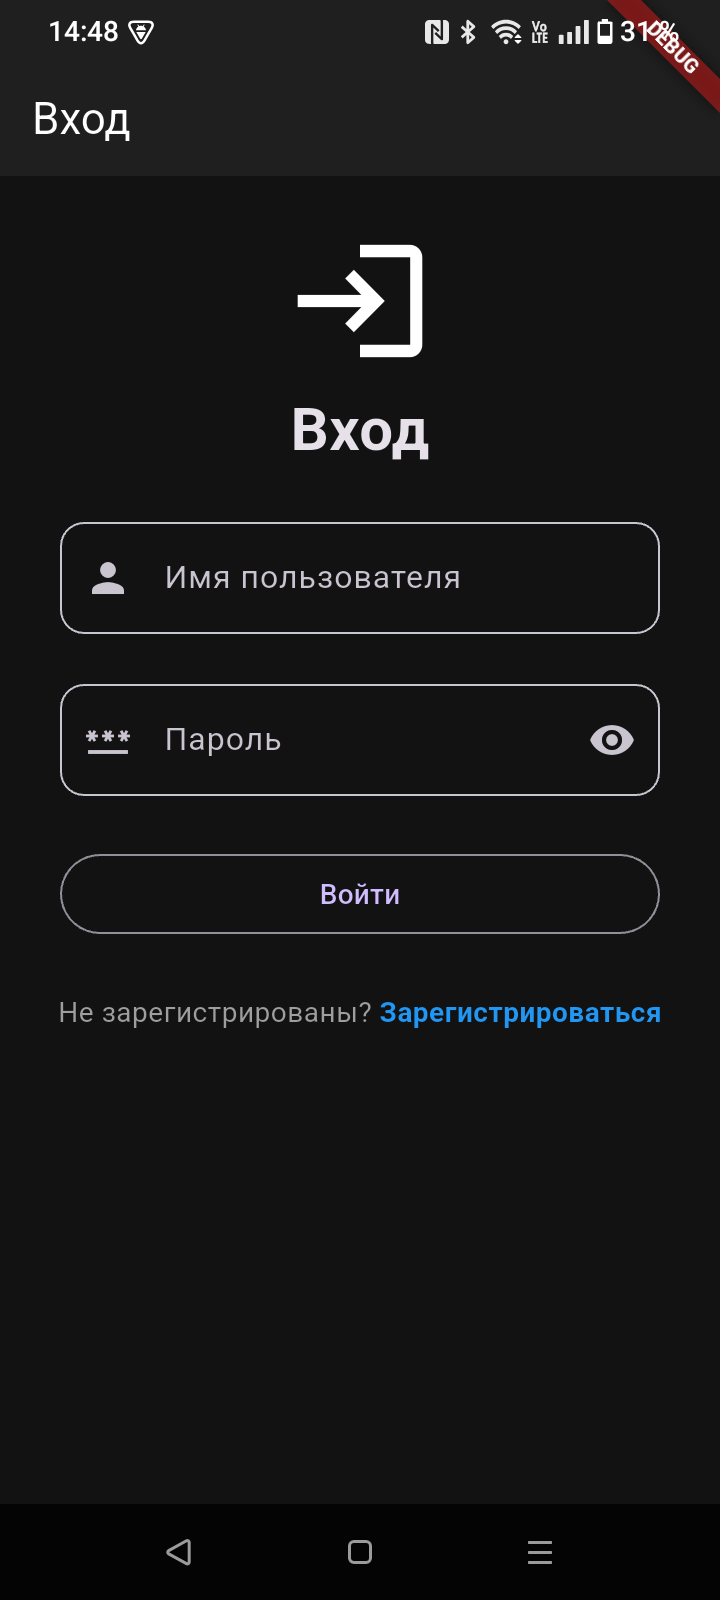
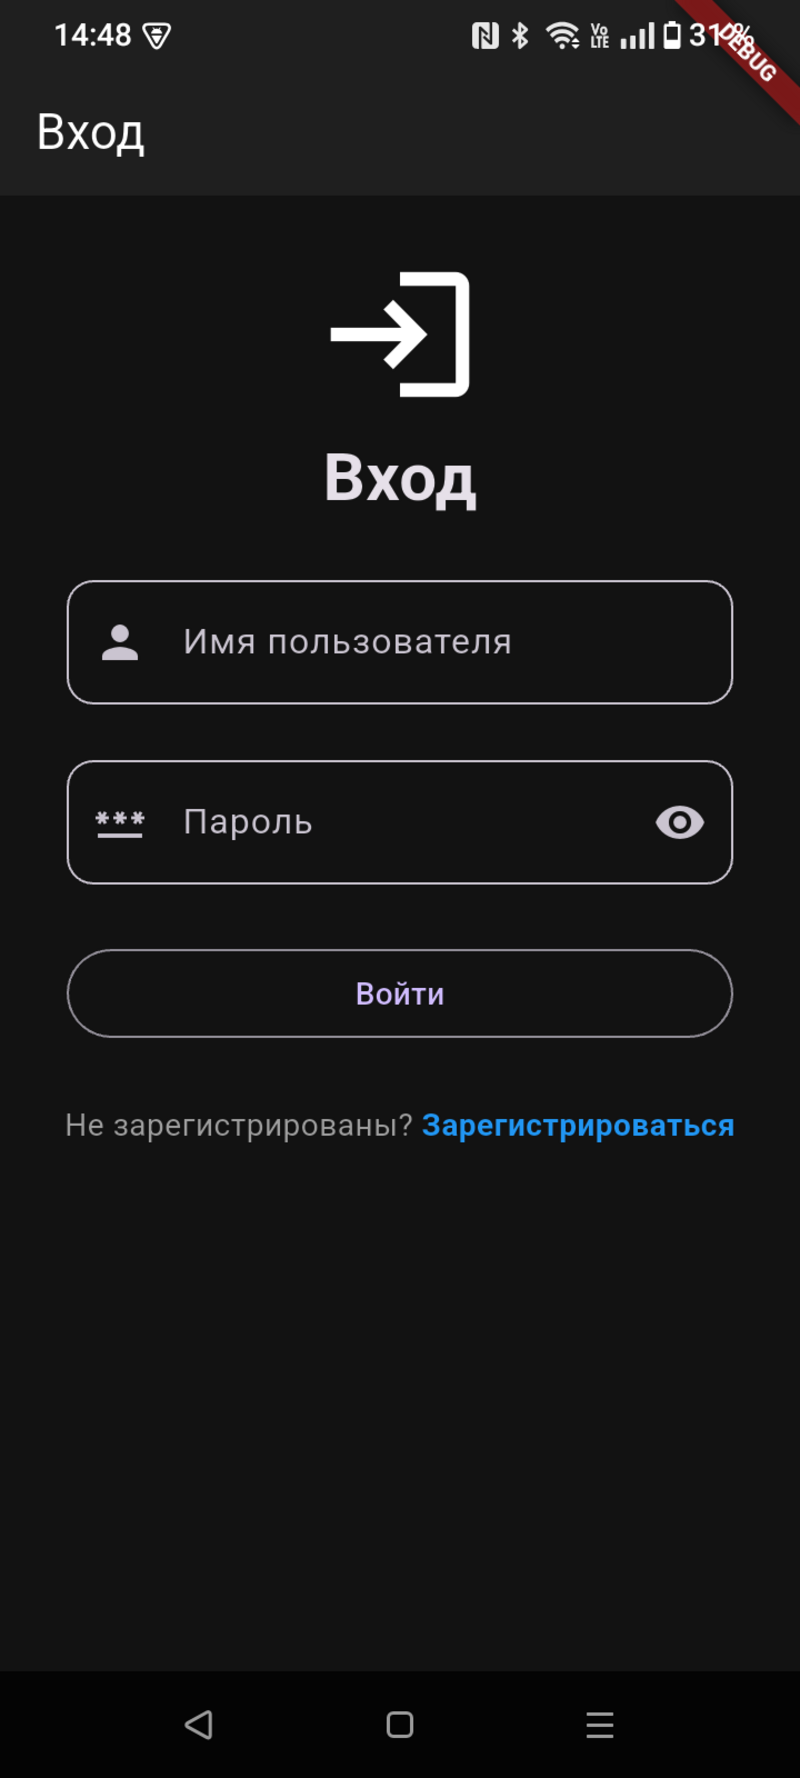
Resize images for README.md

diff --git a/lib/screens/profile_page.dart b/lib/screens/profile_page.dart
@@ -208,46 +208,7 @@ class _ProfilePageState extends State<ProfilePage> {
     }
   }
 
-  Future<void> _updateDescription(String description) async {
-    try {
-      final prefs = await SharedPreferences.getInstance();
-      final token = prefs.getString('auth_token');
-
-      if (token == null || !mounted) return;
-
-      final api = ApiService();
-      final response = await api.updateDescription(token, description);
-
-      if (!mounted) return;
-
-      if (response["success"] == true) {
-        ScaffoldMessenger.of(context).showSnackBar(
-          SnackBar(
-            content: Text(response["message"] ?? 'Описание обновлено'),
-            backgroundColor: Colors.greenAccent,
-          ),
-        );
-        await _loadProfile();
-      } else {
-        ScaffoldMessenger.of(context).showSnackBar(
-          SnackBar(
-            content: Text(response["message"] ?? 'Неизвестная ошибка'),
-            backgroundColor: Colors.red,
-          ),
-        );
-      }
-    } catch (e) {
-      if (!mounted) return;
-      ScaffoldMessenger.of(context).showSnackBar(
-        SnackBar(
-          content: Text("Ошибка: $e"),
-          duration: const Duration(seconds: 2),
-          backgroundColor: Colors.red,
-        ),
-      );
-    }
-  }
-
+  
   @override
   Widget build(BuildContext context) {
     if (_isLoading) {
